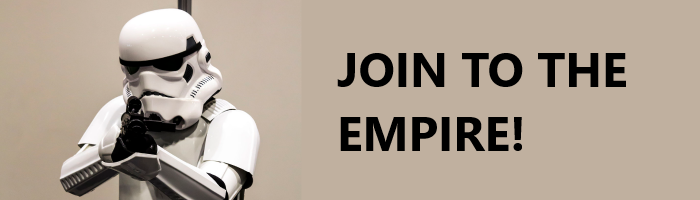
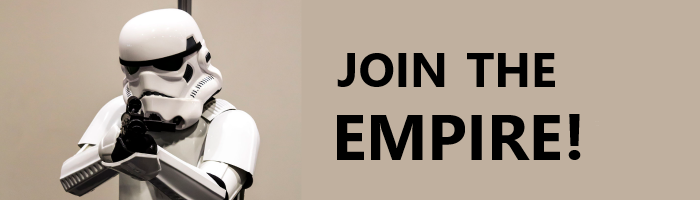
Last Commit

Changed region(s): [[0.48, 0.57, 0.84, 0.81], [0.66, 0.24, 0.9, 0.45]]

diff --git a/index.html b/index.html
@@ -1,143 +1,163 @@
 <!DOCTYPE html>
 <html lang="es">
+
 <head>
     <meta charset="UTF-8">
     <meta name="viewport" content="width=device-width, initial-scale=1.0">
-    <link rel="stylesheet" href="./style/style.css"> 
+    <link rel="stylesheet" href="./style/style.css">
     <title>The Imperial Droid Depot</title>
 </head>
+
 <body>
     <header>
         <img src="./img/logo-imperial.jpg" alt="Website Logo" height="50">
         <h1>THE IMPERIAL DROID DEPOT</h1>
-        <div> 
-            <img src="./img/lordvader.png" alt="Come to the dark side" height="50">
+        <div>
+            <img src="./img/lordvader.png" alt="User Profile Picture" height="50">
             <p>Welcome: Lord Vader</p>
-            <a href="./detail.html"><div>
-                0 
-            </div> 
-        </a>
+            <a href="./detail.html">
+                <div id="cart">
+                    0
+                </div>
+            </a>
         </div>
-        
+
     </header>
-    <nav> 
+    <nav>
         <a href="#astro">Astromech Droids</a>
         <a href="#proto">Protocol Droids</a>
         <a href="#battle">Battle Droids</a>
     </nav>
     <div class="carousel-container">
         <div class="carousel">
-            <div class="carousel-slide"> 
-                <img src="./img/deathstar.png" alt="Image 1">
-                <img src="./img/stormtrooper.png" alt="Image 2">
-                <img src="./img/probedroid.png" alt="Image 3">
+            <div class="carousel-slide">
+                <img src="./img/deathstar.png" alt="We are Hiring! Work with us in the Deathstar!">
+                <img src="./img/stormtrooper.png" alt="JOIN THE EMPIRE">
+                <img src="./img/probedroid.png" alt="Say Cheese! These droids have been tested in Hoth">
             </div>
             <script src="./scripts/banner.js"></script>
         </div>
     </div>
-   
+    
     <section>
         <h2>Our Stock</h2>
         <article id="astro">
             <h3>Astromech Droids</h3>
             <div>
                 <div class="card">
-                    <img src="./img/R2.png" alt="Imagen de ejemplo">
-                    <div class="card-content">
+                    <a href="./detail.html">
+                        <img src="./img/R2.png" alt="R2 Unit">
+                    </a>
+                    <section class="card-content">
                         <h4>R2 Unit</h4>
                         <p>1000 €</p>
                         <button>Add to Cart</button>
-                    </div>
+                    </section>
                 </div>
                 <div class="card">
-                    <img src="./img/R4.png" alt="Imagen de ejemplo">
-                    <div class="card-content">
+                    <a href="./detail.html"><img src="./img/R4.png" alt="R4 Unit"></a>
+
+                    <section class="card-content">
                         <h4>R4 Unit</h4>
                         <p>1700 €</p>
                         <button>Add to Cart</button>
-                    </div>
+                    </section>
                 </div>
-                
+
             </div>
         </article>
         <article id="proto">
             <h3>Protocol Droids</h3>
             <div>
                 <div class="card">
-                    <img src="./img/RA-7.png" alt="Imagen de ejemplo">
-                    <div class="card-content">
+                    <a href="./detail.html"><img src="./img/RA-7.png" alt="RA-7 Unit"></a>
+
+                    <section class="card-content">
                         <h4>RA-7 Unit</h4>
                         <p>1200 €</p>
                         <button>Add to Cart</button>
-                    </div>
+                    </section>
                 </div>
                 <div class="card">
-                    <img src="./img/3PO.png" alt="Imagen de ejemplo">
-                    <div class="card-content">
+                    <a href="./detail.html"><img src="./img/3PO.png" alt="3PO Unit"></a>
+
+                    <section class="card-content">
                         <h4>3PO-Series Unit</h4>
                         <p>1500 €</p>
                         <button>Add to Cart</button>
-                    </div>
-                </div> 
+                    </section>
+                </div>
                 <div class="card">
-                    <img src="./img/LOM.png" alt="Imagen de ejemplo">
-                    <div class="card-content">
+                    <a href="./detail.html"><img src="./img/LOM.png" alt="LOM-Series Unit"></a>
+
+                    <section class="card-content">
                         <h4>LOM-Series Unit</h4>
                         <p>2000 €</p>
                         <button>Add to Cart</button>
-                    </div>
+                    </section>
                 </div>
             </div>
         </article>
-        <article  id="battle">
+        <article id="battle">
             <h3>Battle Droids</h3>
             <div>
                 <div class="card">
-                    <img src="./img/b1.png" alt="Imagen de ejemplo">
-                    <div class="card-content">
+                    <a href="./detail.html"><img src="./img/b1.png" alt="B1-CIS"></a>
+
+                    <section class="card-content">
                         <h4>B1-CIS</h4>
                         <p>2000 €</p>
                         <button>Add to Cart</button>
-                    </div>
+                    </section>
                 </div>
                 <div class="card">
-                    <img src="./img/b2.png" alt="Imagen de ejemplo">
-                    <div class="card-content">
+                    <a href="./detail.html"><img src="./img/b2.png" alt="B2-CIS"></a>
+
+                    <section class="card-content">
                         <h4>B2-CIS</h4>
                         <p>10000 €</p>
                         <button>Add to Cart</button>
-                    </div>
+                    </section>
                 </div>
                 <div class="card">
-                    <img src="./img/kx.png" alt="Imagen de ejemplo">
-                    <div class="card-content">
+                    <a href="./detail.html">
+                        <img src="./img/kx.png" alt="KX-Series">
+                    </a>
+                    <section class="card-content">
                         <h4>KX-Series</h4>
                         <p>30000 €</p>
                         <button>Add to Cart</button>
-                    </div>
-                </div> 
+                    </section>
+                </div>
                 <div class="card">
-                    <img src="./img/ig-88.png" alt="Imagen de ejemplo">
-                    <div class="card-content">
+                    <a href="./detail.html">
+                        <img src="./img/ig-88.png" alt="IG-Series 88">
+                    </a>
+                    <section class="card-content">
                         <h4>IG-Series 88</h4>
                         <p>45000 €</p>
                         <button>Add to Cart</button>
-                    </div>
-                </div> 
-                <div class="card">
-                    <img src="./img/magna.png" alt="Imagen de ejemplo">
-                    <div class="card-content">
+                    </section>
+                </div>
+                <div class="card" id="product-card">
+                    <a href="./detail.html">
+                        <img src="./img/magna.png" alt="IG-Series 100">
+                    </a>
+                    <section class="card-content">
                         <h4>IG-Series 100</h4>
                         <p>50000 €</p>
                         <button>Add to Cart</button>
-                    </div>
+                    </section>
                 </div> 
             </div>
         </article>
     </section>
+    <script src="./scripts/addToCart.js"></script>
     <footer>
         <p>Antonio Suárez Crespo - UO270543</p>
         <p>Máster Universitario de Ingeniería Web - 2024</p>
     </footer>
+
 </body>
+
 </html>

diff --git a/detail.html b/detail.html
@@ -1,32 +1,37 @@
 <!DOCTYPE html>
 <html lang="es">
-    <head>
-        <meta charset="UTF-8">
-        <meta name="viewport" content="width=device-width, initial-scale=1.0">
-        <link rel="stylesheet" href="./style/style.css"> 
-        <link rel="stylesheet" href="./style/details.css"> 
-        <title>The Imperial Droid Depot: Details</title>
-    </head>
-<body> 
+
+<head>
+    <meta charset="UTF-8">
+    <meta name="viewport" content="width=device-width, initial-scale=1.0">
+    <link rel="stylesheet" href="./style/style.css">
+    <link rel="stylesheet" href="./style/details.css">
+    <title>The Imperial Droid Depot: Details</title>
+</head>
+
+<body>
     <header>
         <img src="./img/logo-imperial.jpg" alt="Website Logo" height="50">
         <h1>THE IMPERIAL DROID DEPOT</h1>
-        <div> 
+        <div>
             <img src="./img/lordvader.png" alt="Come to the dark side" height="50">
             <p>Welcome: Lord Vader</p>
             <a href="./index.html">Go Back</a>
         </div>
     </header>
 
-    <main> 
+    <main>
         <section>
             <h2>Product Details</h2>
             <div>
                 <section>
                     <img src="./img/b1.png" alt="Website Logo">
                     <h3>B1-CIS Droid</h3>
-                    <p>B1-series battle droids, also referred to as B1 battle droids, standard battle droids, clankers, or tinnies were the predominantly used battle droids manufactured by Baktoid Combat Automata and Baktoid Armor Workshop. Even though they were extensively produced and deployed, 
-                        the B1-series battle droid was flimsily designed and easy to destroy, and was only truly successful in substantial overwhelming numbers.
+                    <p>B1-series battle droids, also referred to as B1 battle droids, standard battle droids, clankers,
+                        or tinnies were the predominantly used battle droids manufactured by Baktoid Combat Automata and
+                        Baktoid Armor Workshop. Even though they were extensively produced and deployed,
+                        the B1-series battle droid was flimsily designed and easy to destroy, and was only truly
+                        successful in substantial overwhelming numbers.
                     </p>
                 </section>
                 <section>
@@ -41,14 +46,28 @@
                         <p>2050 €</p>
                         <script src="./scripts/acordeon.js"></script>
                     </div>
-                    
+
                     <div>
                         <h3>Payment</h3>
-                        <button>Credit Card</button>
-                        
-                        <script src="https://www.paypal.com/sdk/js?client-id=AUY9Pz6z0YPXLXVrQZ7OW225h9TK2yhyOA3Az1Qe2aeogxLXV_bB5mnubdUneiGozFTZfgnVI_RQaK3-&components=buttons"></script>
-                        
-                    </div> 
+
+                        <script
+                            src="https://www.paypal.com/sdk/js?client-id=AUY9Pz6z0YPXLXVrQZ7OW225h9TK2yhyOA3Az1Qe2aeogxLXV_bB5mnubdUneiGozFTZfgnVI_RQaK3-&components=buttons&currency=EUR&disable-funding=credit,card,bancontact"></script>
+                        <div id="paypal-button-container" data-amount="2050.00"></div>
+                        <script>
+                            paypal.Buttons({
+                                createOrder(data, actions) {
+                                    return actions.order.create({
+                                        purchase_units: [{
+                                            amount: {
+                                                value: document.getElementById('paypal-button-container').getAttribute('data-amount'),
+                                                currency_code: 'EUR'
+                                            }
+                                        }]
+                                    });
+                                }
+                            }).render('#paypal-button-container');
+                        </script>
+                    </div>
                 </section>
             </div>
         </section>
@@ -57,6 +76,7 @@
     <footer>
         <p>Antonio Suárez Crespo - UO270543</p>
         <p>Máster Universitario de Ingeniería Web - 2024</p>
-    </footer> 
+    </footer>
 </body>
+
 </html>

diff --git a/scripts/addToCart.js b/scripts/addToCart.js
@@ -1,0 +1,9 @@
+const cartElement = document.getElementById('cart'); 
+const addToCartButtons = document.querySelectorAll('.card button'); 
+let cartCount = 0; 
+addToCartButtons.forEach(button => {
+    button.addEventListener('click', function() { 
+        cartCount++; 
+        cartElement.textContent = cartCount;
+    });
+});
